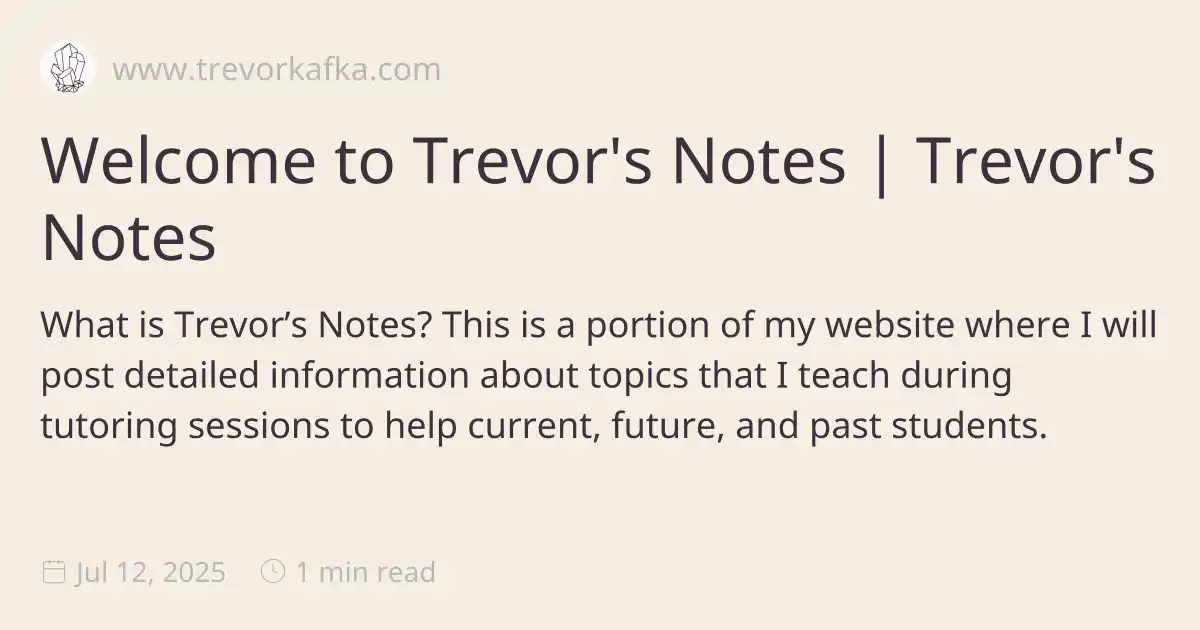
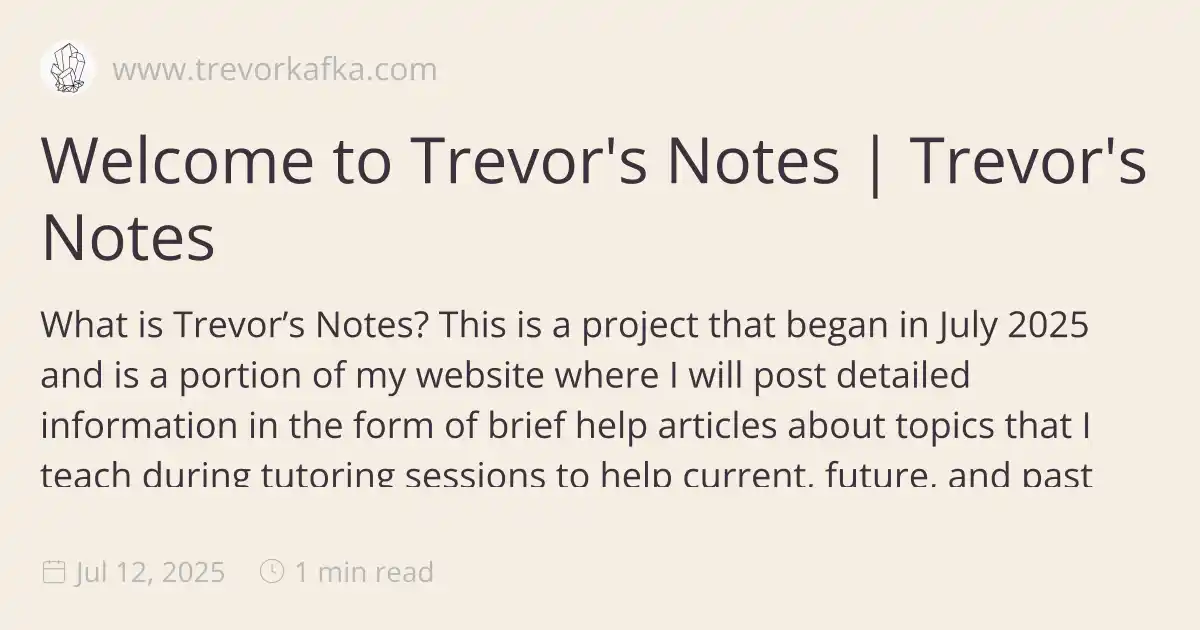
Quartz sync: Jul 13, 2025, 12:55 PM

diff --git a/public/index.html b/public/index.html
@@ -1,5 +1,5 @@
 <!DOCTYPE html>
-<html lang="en"><head><title>Welcome to Trevor's Notes | Trevor's Notes</title><meta charset="utf-8"/><link rel="preconnect" href="https://fonts.googleapis.com"/><link rel="preconnect" href="https://fonts.gstatic.com"/><link rel="stylesheet" href="https://fonts.googleapis.com/css2?family=Freeman:wght@400;700&amp;family=Noto Sans:ital,wght@0,400;0,600;1,400;1,600&amp;family=IBM Plex Mono:wght@400;600&amp;display=swap"/><link rel="preconnect" href="https://cdnjs.cloudflare.com" crossorigin="anonymous"/><meta name="viewport" content="width=device-width, initial-scale=1.0"/><meta name="og:site_name" content="Trevor's Notes"/><meta property="og:title" content="Welcome to Trevor's Notes | Trevor's Notes"/><meta property="og:type" content="website"/><meta name="twitter:card" content="summary_large_image"/><meta name="twitter:title" content="Welcome to Trevor's Notes | Trevor's Notes"/><meta name="twitter:description" content="What is Trevor’s Notes? This is a portion of my website where I will post detailed information about topics that I teach during tutoring sessions to help current, future, and past students."/><meta property="og:description" content="What is Trevor’s Notes? This is a portion of my website where I will post detailed information about topics that I teach during tutoring sessions to help current, future, and past students."/><meta property="og:image:alt" content="What is Trevor’s Notes? This is a portion of my website where I will post detailed information about topics that I teach during tutoring sessions to help current, future, and past students."/><meta property="twitter:domain" content="www.trevorkafka.com"/><meta property="og:url" content="https://www.trevorkafka.com/index"/><meta property="twitter:url" content="https://www.trevorkafka.com/index"/><link rel="icon" href="./static/icon.png"/><meta name="description" content="What is Trevor’s Notes? This is a portion of my website where I will post detailed information about topics that I teach during tutoring sessions to help current, future, and past students."/><meta name="generator" content="Quartz"/><link href="./index.css" rel="stylesheet" type="text/css" spa-preserve/><style>.expand-button {
+<html lang="en"><head><title>Welcome to Trevor's Notes | Trevor's Notes</title><meta charset="utf-8"/><link rel="preconnect" href="https://fonts.googleapis.com"/><link rel="preconnect" href="https://fonts.gstatic.com"/><link rel="stylesheet" href="https://fonts.googleapis.com/css2?family=Freeman:wght@400;700&amp;family=Open Sans:ital,wght@0,400;0,600;1,400;1,600&amp;family=IBM Plex Mono:wght@400;600&amp;display=swap"/><link rel="preconnect" href="https://cdnjs.cloudflare.com" crossorigin="anonymous"/><meta name="viewport" content="width=device-width, initial-scale=1.0"/><meta name="og:site_name" content="Trevor's Notes"/><meta property="og:title" content="Welcome to Trevor's Notes | Trevor's Notes"/><meta property="og:type" content="website"/><meta name="twitter:card" content="summary_large_image"/><meta name="twitter:title" content="Welcome to Trevor's Notes | Trevor's Notes"/><meta name="twitter:description" content="What is Trevor’s Notes? This is a project that began in July 2025 and is a portion of my website where I will post detailed information in the form of brief help articles about topics that I teach during tutoring sessions to help current, future, and past students."/><meta property="og:description" content="What is Trevor’s Notes? This is a project that began in July 2025 and is a portion of my website where I will post detailed information in the form of brief help articles about topics that I teach during tutoring sessions to help current, future, and past students."/><meta property="og:image:alt" content="What is Trevor’s Notes? This is a project that began in July 2025 and is a portion of my website where I will post detailed information in the form of brief help articles about topics that I teach during tutoring sessions to help current, future, and past students."/><meta property="twitter:domain" content="www.trevorkafka.com"/><meta property="og:url" content="https://www.trevorkafka.com/index"/><meta property="twitter:url" content="https://www.trevorkafka.com/index"/><link rel="icon" href="./static/icon.png"/><meta name="description" content="What is Trevor’s Notes? This is a project that began in July 2025 and is a portion of my website where I will post detailed information in the form of brief help articles about topics that I teach during tutoring sessions to help current, future, and past students."/><meta name="generator" content="Quartz"/><link href="./index.css" rel="stylesheet" type="text/css" spa-preserve/><style>.expand-button {
   position: absolute;
   display: flex;
   float: right;
@@ -116,10 +116,10 @@ pre:hover > .expand-button {
   padding: 0 12px;
   font-size: 14px;
 }
[1 lines of base64/hex data omitted]
-<p>This is a portion of my website where I will post detailed information about topics that I teach during tutoring sessions to help current, future, and past students.</p>
[1 lines of base64/hex data omitted]
+<p>This is a project that began in <strong>July 2025</strong> and is a portion of my website where I will post detailed information in the form of brief help articles about topics that I teach during tutoring sessions to help current, future, and past students.</p>
 <p>At the moment, this project is <strong>tiny</strong>, but over time it will turn into a large collection of useful help pages. Click a link in the explorer to the left to browse articles. You can also view all pages on this site sorted by <a href="./tags" class="internal alias" data-slug="tags">tag</a>.</p>
-<blockquote class="callout note" data-callout="note">
+<blockquote class="callout tip" data-callout="tip">
 <div class="callout-title">
                   <div class="callout-icon"></div>
                   <div class="callout-title-inner"><p>Looking for notes and class materials from our tutoring sessions? </p></div>
@@ -131,7 +131,7 @@ pre:hover > .expand-button {
 </div>
 </div>
 </blockquote>
-<blockquote class="callout tip" data-callout="tip">
+<blockquote class="callout warning" data-callout="warning">
 <div class="callout-title">
                   <div class="callout-icon"></div>
                   <div class="callout-title-inner"><p>Feedback </p></div>

diff --git a/public/tags/index.html b/public/tags/index.html
@@ -1,5 +1,5 @@
 <!DOCTYPE html>
-<html lang="en"><head><title>Tag Index | Trevor's Notes</title><meta charset="utf-8"/><link rel="preconnect" href="https://fonts.googleapis.com"/><link rel="preconnect" href="https://fonts.gstatic.com"/><link rel="stylesheet" href="https://fonts.googleapis.com/css2?family=Freeman:wght@400;700&amp;family=Noto Sans:ital,wght@0,400;0,600;1,400;1,600&amp;family=IBM Plex Mono:wght@400;600&amp;display=swap"/><link rel="preconnect" href="https://cdnjs.cloudflare.com" crossorigin="anonymous"/><meta name="viewport" content="width=device-width, initial-scale=1.0"/><meta name="og:site_name" content="Trevor's Notes"/><meta property="og:title" content="Tag Index | Trevor's Notes"/><meta property="og:type" content="website"/><meta name="twitter:card" content="summary_large_image"/><meta name="twitter:title" content="Tag Index | Trevor's Notes"/><meta name="twitter:description" content="No description provided"/><meta property="og:description" content="No description provided"/><meta property="og:image:alt" content="No description provided"/><meta property="twitter:domain" content="www.trevorkafka.com"/><meta property="og:url" content="https://www.trevorkafka.com/tags/index"/><meta property="twitter:url" content="https://www.trevorkafka.com/tags/index"/><link rel="icon" href="../static/icon.png"/><meta name="description" content="No description provided"/><meta name="generator" content="Quartz"/><link href="../index.css" rel="stylesheet" type="text/css" spa-preserve/><style>.expand-button {
+<html lang="en"><head><title>Tag Index | Trevor's Notes</title><meta charset="utf-8"/><link rel="preconnect" href="https://fonts.googleapis.com"/><link rel="preconnect" href="https://fonts.gstatic.com"/><link rel="stylesheet" href="https://fonts.googleapis.com/css2?family=Freeman:wght@400;700&amp;family=Open Sans:ital,wght@0,400;0,600;1,400;1,600&amp;family=IBM Plex Mono:wght@400;600&amp;display=swap"/><link rel="preconnect" href="https://cdnjs.cloudflare.com" crossorigin="anonymous"/><meta name="viewport" content="width=device-width, initial-scale=1.0"/><meta name="og:site_name" content="Trevor's Notes"/><meta property="og:title" content="Tag Index | Trevor's Notes"/><meta property="og:type" content="website"/><meta name="twitter:card" content="summary_large_image"/><meta name="twitter:title" content="Tag Index | Trevor's Notes"/><meta name="twitter:description" content="No description provided"/><meta property="og:description" content="No description provided"/><meta property="og:image:alt" content="No description provided"/><meta property="twitter:domain" content="www.trevorkafka.com"/><meta property="og:url" content="https://www.trevorkafka.com/tags/index"/><meta property="twitter:url" content="https://www.trevorkafka.com/tags/index"/><link rel="icon" href="../static/icon.png"/><meta name="description" content="No description provided"/><meta name="generator" content="Quartz"/><link href="../index.css" rel="stylesheet" type="text/css" spa-preserve/><style>.expand-button {
   position: absolute;
   display: flex;
   float: right;
@@ -116,7 +116,7 @@ pre:hover > .expand-button {
   padding: 0 12px;
   font-size: 14px;
 }
[2 lines of base64/hex data omitted]
 </script><script type="module">function f(i,e){if(!i)return;function r(o){o.target===this&&(o.preventDefault(),o.stopPropagation(),e())}function t(o){o.key.startsWith("Esc")&&(o.preventDefault(),e())}i?.addEventListener("click",r),window.addCleanup(()=>i?.removeEventListener("click",r)),document.addEventListener("keydown",t),window.addCleanup(()=>document.removeEventListener("keydown",t))}function y(i){for(;i.firstChild;)i.removeChild(i.firstChild)}var h=class{constructor(e,r){this.container=e;this.content=r;this.setupEventListeners(),this.setupNavigationControls(),this.resetTransform()}isDragging=!1;startPan={x:0,y:0};currentPan={x:0,y:0};scale=1;MIN_SCALE=.5;MAX_SCALE=3;cleanups=[];setupEventListeners(){let e=this.onMouseDown.bind(this),r=this.onMouseMove.bind(this),t=this.onMouseUp.bind(this),o=this.resetTransform.bind(this);this.container.addEventListener("mousedown",e),document.addEventListener("mousemove",r),document.addEventListener("mouseup",t),window.addEventListener("resize",o),this.cleanups.push(()=>this.container.removeEventListener("mousedown",e),()=>document.removeEventListener("mousemove",r),()=>document.removeEventListener("mouseup",t),()=>window.removeEventListener("resize",o))}cleanup(){for(let e of this.cleanups)e()}setupNavigationControls(){let e=document.createElement("div");e.className="mermaid-controls";let r=this.createButton("+",()=>this.zoom(.1)),t=this.createButton("-",()=>this.zoom(-.1)),o=this.createButton("Reset",()=>this.resetTransform());e.appendChild(t),e.appendChild(o),e.appendChild(r),this.container.appendChild(e)}createButton(e,r){let t=document.createElement("button");return t.textContent=e,t.className="mermaid-control-button",t.addEventListener("click",r),window.addCleanup(()=>t.removeEventListener("click",r)),t}onMouseDown(e){e.button===0&&(this.isDragging=!0,this.startPan={x:e.clientX-this.currentPan.x,y:e.clientY-this.currentPan.y},this.container.style.cursor="grabbing")}onMouseMove(e){this.isDragging&&(e.preventDefault(),this.currentPan={x:e.clientX-this.startPan.x,y:e.clientY-this.startPan.y},this.updateTransform())}onMouseUp(){this.isDragging=!1,this.container.style.cursor="grab"}zoom(e){let r=Math.min(Math.max(this.scale+e,this.MIN_SCALE),this.MAX_SCALE),t=this.content.getBoundingClientRect(),o=t.width/2,n=t.height/2,c=r-this.scale;this.currentPan.x-=o*c,this.currentPan.y-=n*c,this.scale=r,this.updateTransform()}updateTransform(){this.content.style.transform=`translate(${this.currentPan.x}px, ${this.currentPan.y}px) scale(${this.scale})`}resetTransform(){this.scale=1;let e=this.content.querySelector("svg");this.currentPan={x:e.getBoundingClientRect().width/2,y:e.getBoundingClientRect().height/2},this.updateTransform()}},C=["--secondary","--tertiary","--gray","--light","--lightgray","--highlight","--dark","--darkgray","--codeFont"],E;document.addEventListener("nav",async()=>{let e=document.querySelector(".center").querySelectorAll("code.mermaid");if(e.length===0)return;E||=await import("https://cdnjs.cloudflare.com/ajax/libs/mermaid/11.4.0/mermaid.esm.min.mjs");let r=E.default,t=new WeakMap;for(let n of e)t.set(n,n.innerText);async function o(){for(let s of e){s.removeAttribute("data-processed");let a=t.get(s);a&&(s.innerHTML=a)}let n=C.reduce((s,a)=>(s[a]=window.getComputedStyle(document.documentElement).getPropertyValue(a),s),{}),c=document.documentElement.getAttribute("saved-theme")==="dark";r.initialize({startOnLoad:!1,securityLevel:"loose",theme:c?"dark":"base",themeVariables:{fontFamily:n["--codeFont"],primaryColor:n["--light"],primaryTextColor:n["--darkgray"],primaryBorderColor:n["--tertiary"],lineColor:n["--darkgray"],secondaryColor:n["--secondary"],tertiaryColor:n["--tertiary"],clusterBkg:n["--light"],edgeLabelBackground:n["--highlight"]}}),await r.run({nodes:e})}await o(),document.addEventListener("themechange",o),window.addCleanup(()=>document.removeEventListener("themechange",o));for(let n=0;n<e.length;n++){let v=function(){let g=l.querySelector("#mermaid-space"),m=l.querySelector(".mermaid-content");if(!m)return;y(m);let w=c.querySelector("svg").cloneNode(!0);m.appendChild(w),l.classList.add("active"),g.style.cursor="grab",u=new h(g,m)},M=function(){l.classList.remove("active"),u?.cleanup(),u=null},c=e[n],s=c.parentElement,a=s.querySelector(".clipboard-button"),d=s.querySelector(".expand-button"),p=window.getComputedStyle(a),L=a.offsetWidth+parseFloat(p.marginLeft||"0")+parseFloat(p.marginRight||"0");d.style.right=`calc(${L}px + 0.3rem)`,s.prepend(d);let l=s.querySelector("#mermaid-container");if(!l)return;let u=null;d.addEventListener("click",v),f(l,M),window.addCleanup(()=>{u?.cleanup(),d.removeEventListener("click",v)})}});
 </script><script src="https://cdn.jsdelivr.net/npm/katex@0.16.11/dist/contrib/copy-tex.min.js" type="application/javascript"></script><script type="application/javascript">
         const socket = new WebSocket('ws://localhost:3001')

diff --git a/public/404.html b/public/404.html
@@ -1,5 +1,5 @@
 <!DOCTYPE html>
-<html lang="en"><head><title>Not Found | Trevor's Notes</title><meta charset="utf-8"/><link rel="preconnect" href="https://fonts.googleapis.com"/><link rel="preconnect" href="https://fonts.gstatic.com"/><link rel="stylesheet" href="https://fonts.googleapis.com/css2?family=Freeman:wght@400;700&amp;family=Noto Sans:ital,wght@0,400;0,600;1,400;1,600&amp;family=IBM Plex Mono:wght@400;600&amp;display=swap"/><link rel="preconnect" href="https://cdnjs.cloudflare.com" crossorigin="anonymous"/><meta name="viewport" content="width=device-width, initial-scale=1.0"/><meta name="og:site_name" content="Trevor's Notes"/><meta property="og:title" content="Not Found | Trevor's Notes"/><meta property="og:type" content="website"/><meta name="twitter:card" content="summary_large_image"/><meta name="twitter:title" content="Not Found | Trevor's Notes"/><meta name="twitter:description" content="Not Found"/><meta property="og:description" content="Not Found"/><meta property="og:image:alt" content="Not Found"/><meta property="twitter:domain" content="www.trevorkafka.com"/><meta property="og:url" content="https://www.trevorkafka.com/"/><meta property="twitter:url" content="https://www.trevorkafka.com/"/><link rel="icon" href="/static/icon.png"/><meta name="description" content="Not Found"/><meta name="generator" content="Quartz"/><link href="/index.css" rel="stylesheet" type="text/css" spa-preserve/><style>.expand-button {
+<html lang="en"><head><title>Not Found | Trevor's Notes</title><meta charset="utf-8"/><link rel="preconnect" href="https://fonts.googleapis.com"/><link rel="preconnect" href="https://fonts.gstatic.com"/><link rel="stylesheet" href="https://fonts.googleapis.com/css2?family=Freeman:wght@400;700&amp;family=Open Sans:ital,wght@0,400;0,600;1,400;1,600&amp;family=IBM Plex Mono:wght@400;600&amp;display=swap"/><link rel="preconnect" href="https://cdnjs.cloudflare.com" crossorigin="anonymous"/><meta name="viewport" content="width=device-width, initial-scale=1.0"/><meta name="og:site_name" content="Trevor's Notes"/><meta property="og:title" content="Not Found | Trevor's Notes"/><meta property="og:type" content="website"/><meta name="twitter:card" content="summary_large_image"/><meta name="twitter:title" content="Not Found | Trevor's Notes"/><meta name="twitter:description" content="Not Found"/><meta property="og:description" content="Not Found"/><meta property="og:image:alt" content="Not Found"/><meta property="twitter:domain" content="www.trevorkafka.com"/><meta property="og:url" content="https://www.trevorkafka.com/"/><meta property="twitter:url" content="https://www.trevorkafka.com/"/><link rel="icon" href="/static/icon.png"/><meta name="description" content="Not Found"/><meta name="generator" content="Quartz"/><link href="/index.css" rel="stylesheet" type="text/css" spa-preserve/><style>.expand-button {
   position: absolute;
   display: flex;
   float: right;

diff --git a/quartz.config.ts b/quartz.config.ts
@@ -24,7 +24,7 @@ const config: QuartzConfig = {
       cdnCaching: true,
       typography: {
         header: "Freeman",
-        body: "Noto Sans",
+        body: "Open Sans",
         code: "IBM Plex Mono",
       },
       colors: {

diff --git a/content/Conic Sections.md b/content/Conic Sections.md
@@ -1,3 +1,10 @@
+---
+tags:
+  - algebra-2
+  - precalc
+---
+
+
 >[!warning] This page is under construction and is far from complete.
 
 **Conic sections** are classes of curved shapes that may be formed by slicing a cone, which are

diff --git a/content/Combinations and Permutations.md b/content/Combinations and Permutations.md
@@ -1,3 +1,8 @@
+---
+tags:
+  - probability
+---
+
 # Permutations
 A **permutation** is an *ordered arrangement of distinct items*. For example, permutations of all four of the letters `ABCD` include `DBAC`, `CDAB`, `ABCD`, and more. We can also create permutations of only three of the letters, such as `ABC`, `DAB`, `BAD`, or `CAD`. 
 

diff --git a/content/Circles.md b/content/Circles.md
@@ -1,8 +1,8 @@
 ---
 tags:
-  - course/physics-all
-  - course/math-all
   - circles
+  - physics-all
+  - math-all
 ---
 
 

diff --git a/content/Greek letters.md b/content/Greek letters.md
@@ -1,9 +1,9 @@
 ---
 tags:
-  - course/math-all
-  - course/physics-all
   - notation
   - reference-sheets
+  - math-all
+  - physics-all
 ---
 
 

diff --git a/content/Sectors.md b/content/Sectors.md
@@ -2,8 +2,8 @@
 tags:
   - circles
   - radians
-  - course/geometry
-  - course/algebra1
+  - geometry
+  - algebra-1
 ---
 
 A **sector** is a pie-shaped segment of a [[Circles|circle]] formed by connecting a circle's center with line segments to two points on the circle itself, as shown in the diagram below.

diff --git a/content/Probability through Counting.md b/content/Probability through Counting.md
@@ -2,7 +2,7 @@
 tags:
   - probability
   - problem-solving
-  - course/math-all
+  - math-all
 ---
 
 

diff --git a/content/Volume.md b/content/Volume.md
@@ -1,6 +1,6 @@
 ---
 tags:
-  - course/geometry
+  - geometry
 ---
 # Prisms
 The volume of a **prism** can be found by multiplying the base area of the prism $A$ by the height of the prism $h$. The prism itself may be slanted without any change to the volume formula, but the measurement of $h$ must be done perpendicular to the base. A **cylinder** is just a special type of prism with a circle as the base (in this case $A = \pi r^2$). A slanted **rectangular prism** is called a **parallelepiped**.